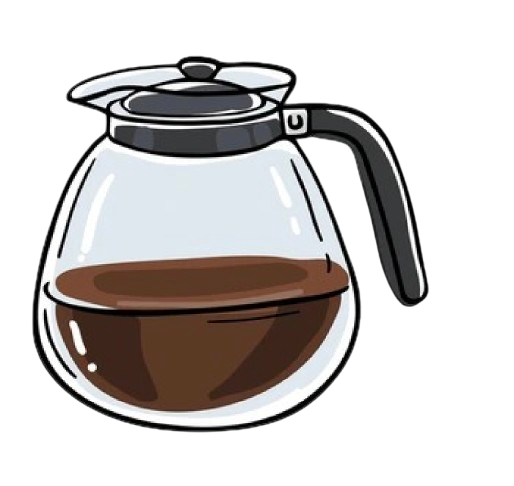
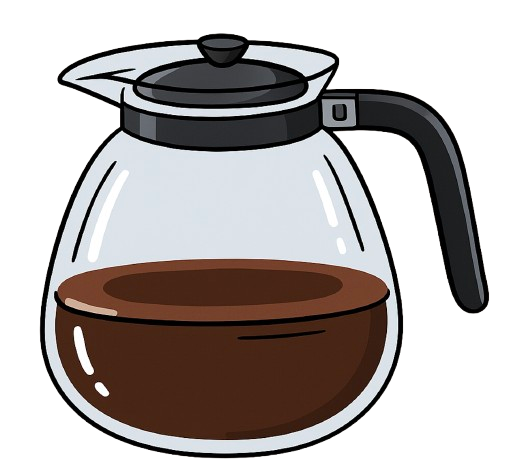
feat: coffie pot tilting to show quote

diff --git a/src/style.css b/src/style.css
@@ -4,8 +4,8 @@
   font-weight: 400;
 
   color-scheme: light dark;
-  color: rgba(228, 82, 82, 0.87);
-  background-color: #242424;
+  color: rgba(188, 177, 177, 0.87);
+  background-color: #c6bcbc;
 
   font-synthesis: none;
   text-rendering: optimizeLegibility;
@@ -13,84 +13,115 @@
   -moz-osx-font-smoothing: grayscale;
 }
 
-a {
-  font-weight: 500;
-  color: #646cff;
-  text-decoration: inherit;
-}
-a:hover {
-  color: #535bf2;
-}
+
+
+
 
 body {
   margin: 0;
-  display: flex;
+  min-height: 200vh;
   place-items: center;
-  min-width: 320px;
-  min-height: 100vh;
+
 }
 
-h1 {
-  font-size: 3.2em;
-  line-height: 1.1;
-}
 
-#app {
+#app { 
   max-width: 1280px;
   margin: 0 auto;
   padding: 2rem;
   text-align: center;
 }
 
-.logo {
-  height: 6em;
-  padding: 1.5em;
-  will-change: filter;
-  transition: filter 300ms;
-}
-.logo:hover {
-  filter: drop-shadow(0 0 2em #646cffaa);
-}
-.logo.vanilla:hover {
-  filter: drop-shadow(0 0 2em #3178c6aa);
+#scene {
+  position: relative;
+  width: 400px; 
+  height: 400px;
 }
 
-.card {
-  padding: 2em;
-}
-
-.read-the-docs {
-  color: #888;
-}
-
-button {
-  border-radius: 8px;
-  border: 1px solid transparent;
-  padding: 0.6em 1.2em;
-  font-size: 1em;
-  font-weight: 500;
-  font-family: inherit;
-  background-color: #1a1a1a;
+#pot {
+  position: absolute;
+  top: 0;
+  left: 100px;
   cursor: pointer;
-  transition: border-color 0.25s;
+  transition: transform 1s ease;
 }
-button:hover {
-  border-color: #646cff;
-}
-button:focus,
-button:focus-visible {
-  outline: 4px auto -webkit-focus-ring-color;
+#pot.tilted {
+  animation: tilt 2s ease forwards;
+
 }
 
-@media (prefers-color-scheme: light) {
-  :root {
-    color: #213547;
-    background-color: #ffffff;
-  }
-  a:hover {
-    color: #747bff;
-  }
-  button {
-    background-color: #f9f9f9;
-  }
+#potTilt {
+  position: absolute;
+  top: -70px;
+  left: 10px;
+  cursor: pointer;
+  width: 600px;
+ 
+  opacity: 0;
+  visibility: hidden;
+  transition: opacity .6s ease, visibility 0s linear .6s; 
+
+  
 }
+
+#potTilt.show {
+  opacity: 1;
+  visibility: visible;
+  transition: opacity 1s ease, visibility 0s; 
+
+}
+
+
+
+
+#beans {
+  display: none;             
+  position: absolute;         
+  top: 90px;                
+  left: 0px;                
+  width: 100px;
+  opacity: 0;
+  margin-left: 60px;
+               
+}
+
+#beans.appear {
+  display: block;            
+  animation: fall 3s ease-in forwards;
+  animation-delay: 0.5s;
+}
+
+#quote {
+  position: fixed;
+  font-style:oblique;
+  font-family:sans-serif;
+  font-weight: 600;
+  bottom: 0; left: 0;
+  width: 100%;
+  text-align: center;
+  color: black;
+  text-decoration: solid;
+  padding: .5rem;          
+  pointer-events: none;  
+  opacity: 0;
+  transition: opacity .3s ease;
+}
+
+
+#quote.show { opacity: 1; }
+
+@keyframes fall {
+  0%   { transform: translate(0, 0);        opacity: 1; }
+  100% { transform: translate(100px, 1300px); opacity: 1; }
+
+
+}
+
+
+@keyframes tilt {
+  0%   { transform: rotate(0deg); }
+  100% { transform: rotate(-20deg); opacity: 0; }
+}
+
+
+

diff --git a/src/components/tilt.ts b/src/components/tilt.ts
@@ -1,0 +1,57 @@
+
+
+export function tiltCoffiepot(element: HTMLElement) {
+  element.addEventListener('click', () => {
+    const beansImg = document.querySelector<HTMLImageElement>('#beans');
+    const quote    = document.querySelector<HTMLDivElement>('#quote');
+ 
+    const potTilt  = document.querySelector<HTMLImageElement>('#potTilt');
+    if (!beansImg || !quote) return;
+
+  
+    element.classList.remove('tilted');
+    element.classList.add('tilted');
+
+
+    // bønnefall
+    beansImg.classList.remove('appear'); void beansImg.offsetWidth;
+    beansImg.classList.add('appear');
+
+ 
+    //pot Tilt
+    if (potTilt) {
+      potTilt.classList.remove('show');   
+      void potTilt.offsetWidth;           
+
+      const crossfadeDelay = 1200; 
+      setTimeout(() => {
+
+        requestAnimationFrame(() => {
+          potTilt.classList.add('show'); 
+  
+      });
+      }, crossfadeDelay);
+    }
+
+
+    //Bønnene som faller 
+    const delay = 500, duration = 3000;
+    setTimeout(() => {
+      const start = performance.now();
+      (function frame(now: number) {
+        const progress = Math.min((now - start) / duration, 1);
+        const rect = beansImg.getBoundingClientRect();
+        const targetY = window.scrollY + rect.bottom - window.innerHeight / 2;
+        window.scrollTo({ top: targetY, behavior: 'auto' });
+        if (progress < 1) requestAnimationFrame(frame);
+      })(start);
+    }, delay);
+
+
+    // quote i bunnen av siden
+    beansImg.addEventListener('animationend', () => {
+      window.scrollTo({ top: document.documentElement.scrollHeight, behavior: 'smooth' });
+      quote.classList.add('show');
+    }, { once: true });
+  });
+}

diff --git a/src/pages/main.ts b/src/pages/main.ts
@@ -1,11 +1,17 @@
-import '../style.css'
-
-import { setupCounter } from '../components/counter.ts'
+import '../style.css';
+import { tiltCoffiepot } from '../components/tilt.ts';
 
 document.querySelector<HTMLDivElement>('#app')!.innerHTML = `
-  <div className="circle-wrapper">
-    <img src="/images/pot.png" alt="Pot" />
+  <div id="scene">
+    <img id="pot" src="/images/pot.png" alt="Pot" />
+    <img id="potTilt" src="/images/coffeTilt.png" alt="bilde"/>
+    <img id="beans" src="/images/beans.png" alt="beans" />
   </div>
 
-`
-setupCounter(document.querySelector<HTMLButtonElement>('#counter')!)
+
+  <div id="quote">
+    <p> "More espresso, less depresso."</p>
+  </div>
+`;
+
+tiltCoffiepot(document.querySelector<HTMLElement>('#pot')!);
